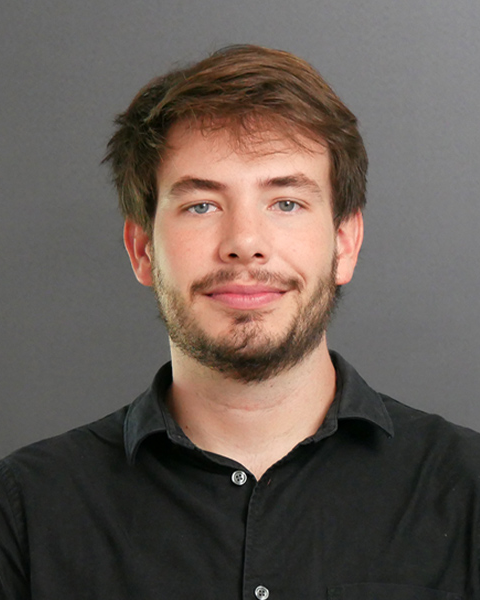
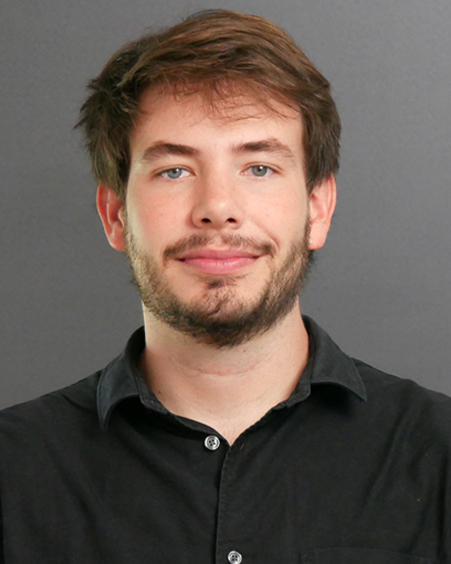
Add portrait photo for Michal Oszmaniec

diff --git a/WebsiteFiles/content/pages/principal-investigators.md b/WebsiteFiles/content/pages/principal-investigators.md
@@ -32,7 +32,13 @@ Our consortium consists of five PIs spread over five different countries and ins
 </div>
 
 ### Michał Oszmaniec
-Michal is a Leader of Quantum Computing Groups at CTP PAS and NASK in Warsaw, Poland. You can discover more about his research on his [personal website](https://quantin.pl/) or on [Twitter](https://twitter.com/MichalOszmaniec).
+
+<div class="pi-entry">
+  <img src="{static}/images/michal_oszmaniec_portrait.png" alt="Michał Oszmaniec" class="pi-portrait">
+  <div class="pi-text">
+    Michal is a Leader of Quantum Computing Groups at CTP PAS and NASK in Warsaw, Poland. You can discover more about his research on his <a href="https://quantin.pl/">personal website</a> or on <a href="https://twitter.com/MichalOszmaniec">Twitter</a>.
+  </div>
+</div>
 
 ### Mischa Woods
 
